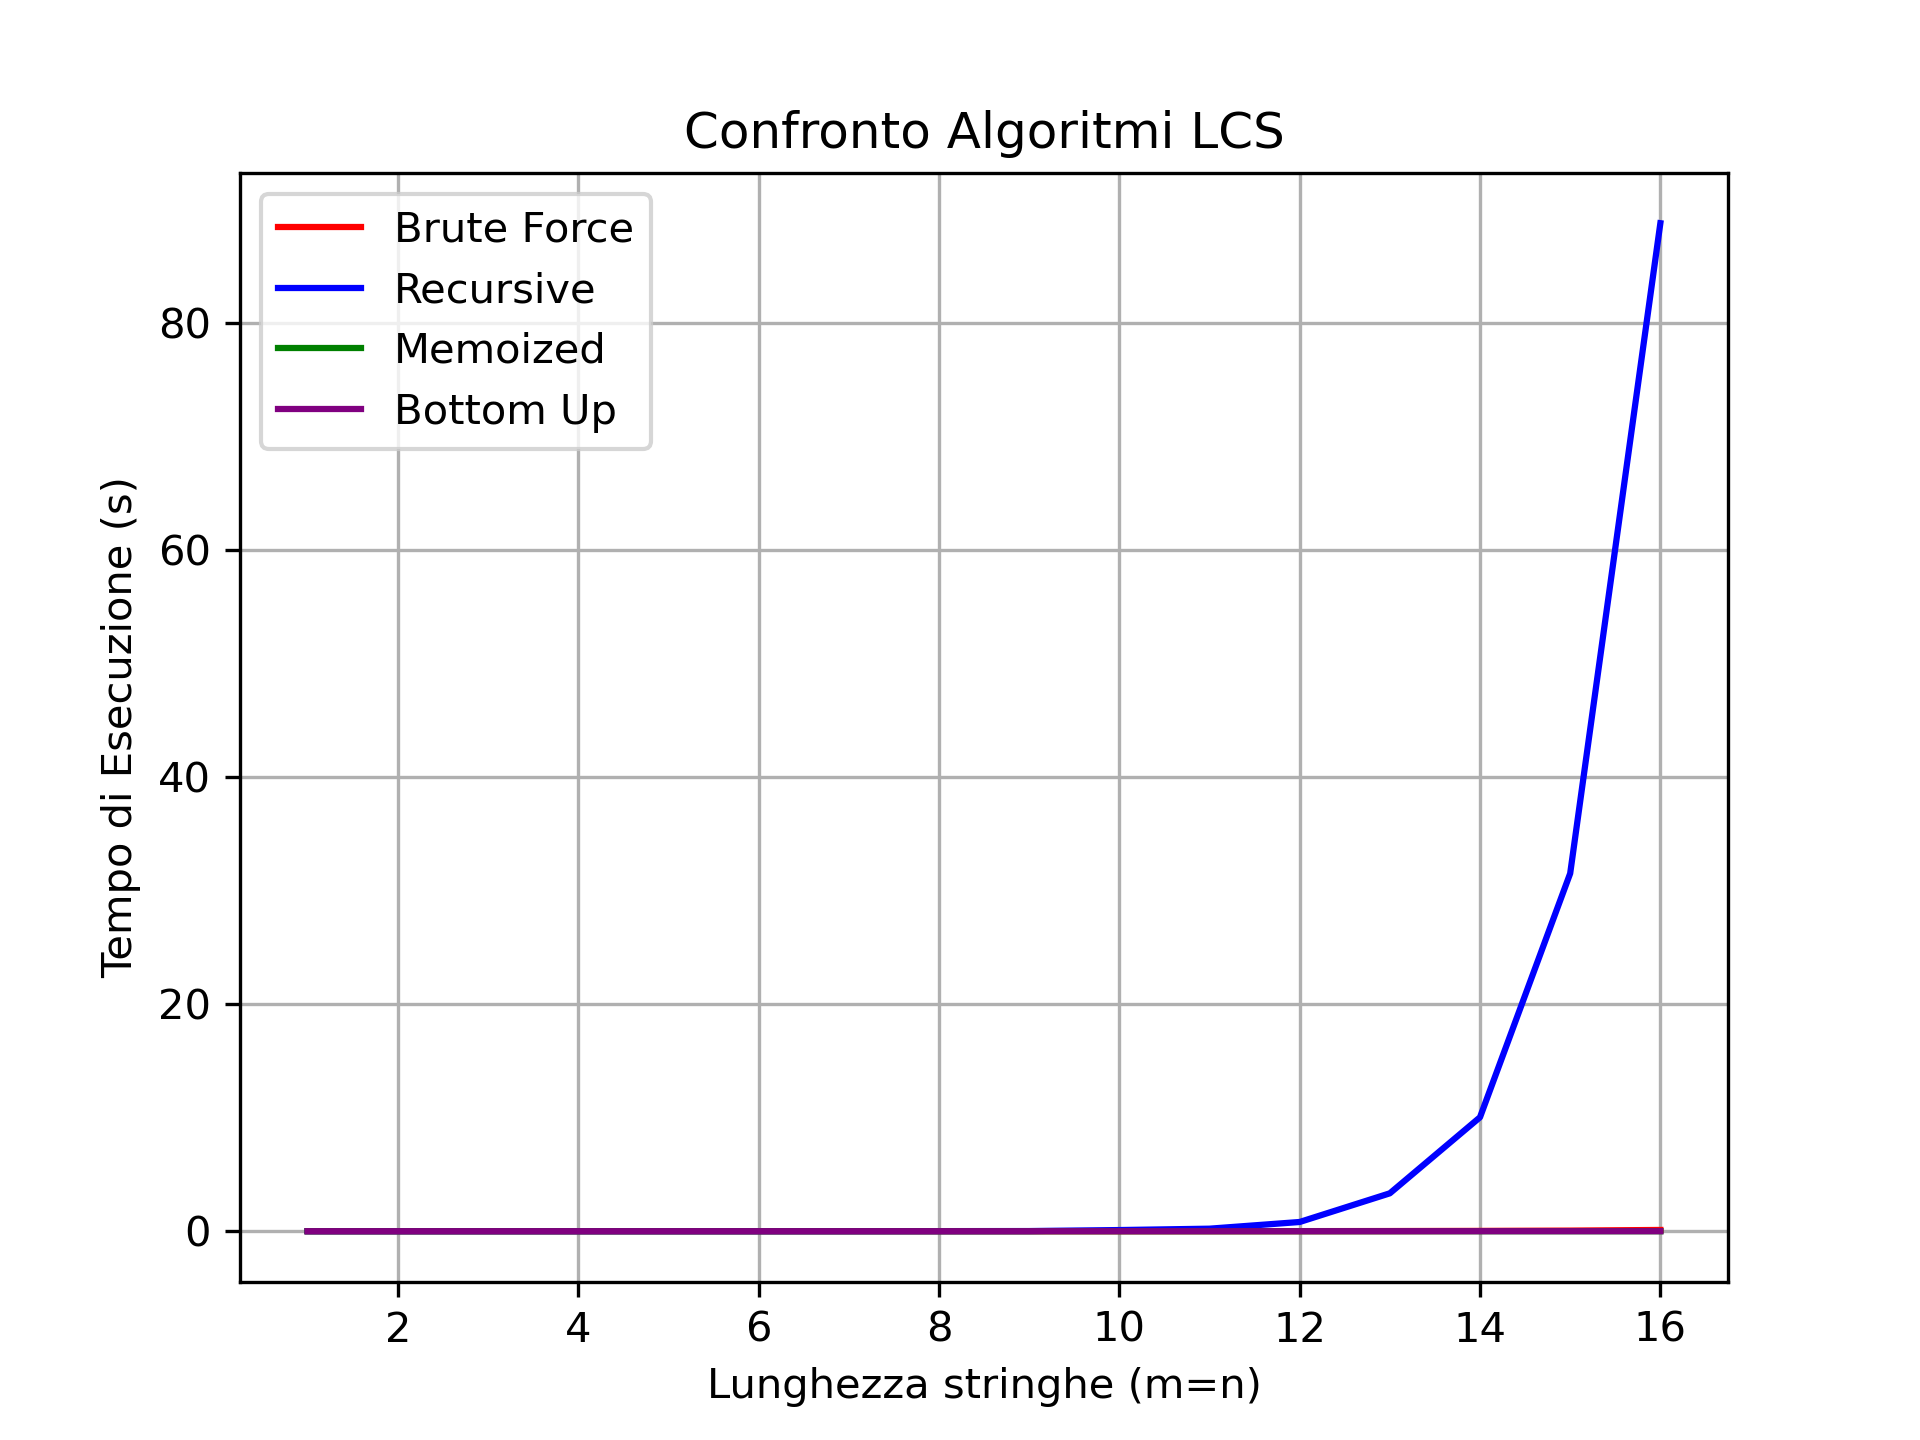
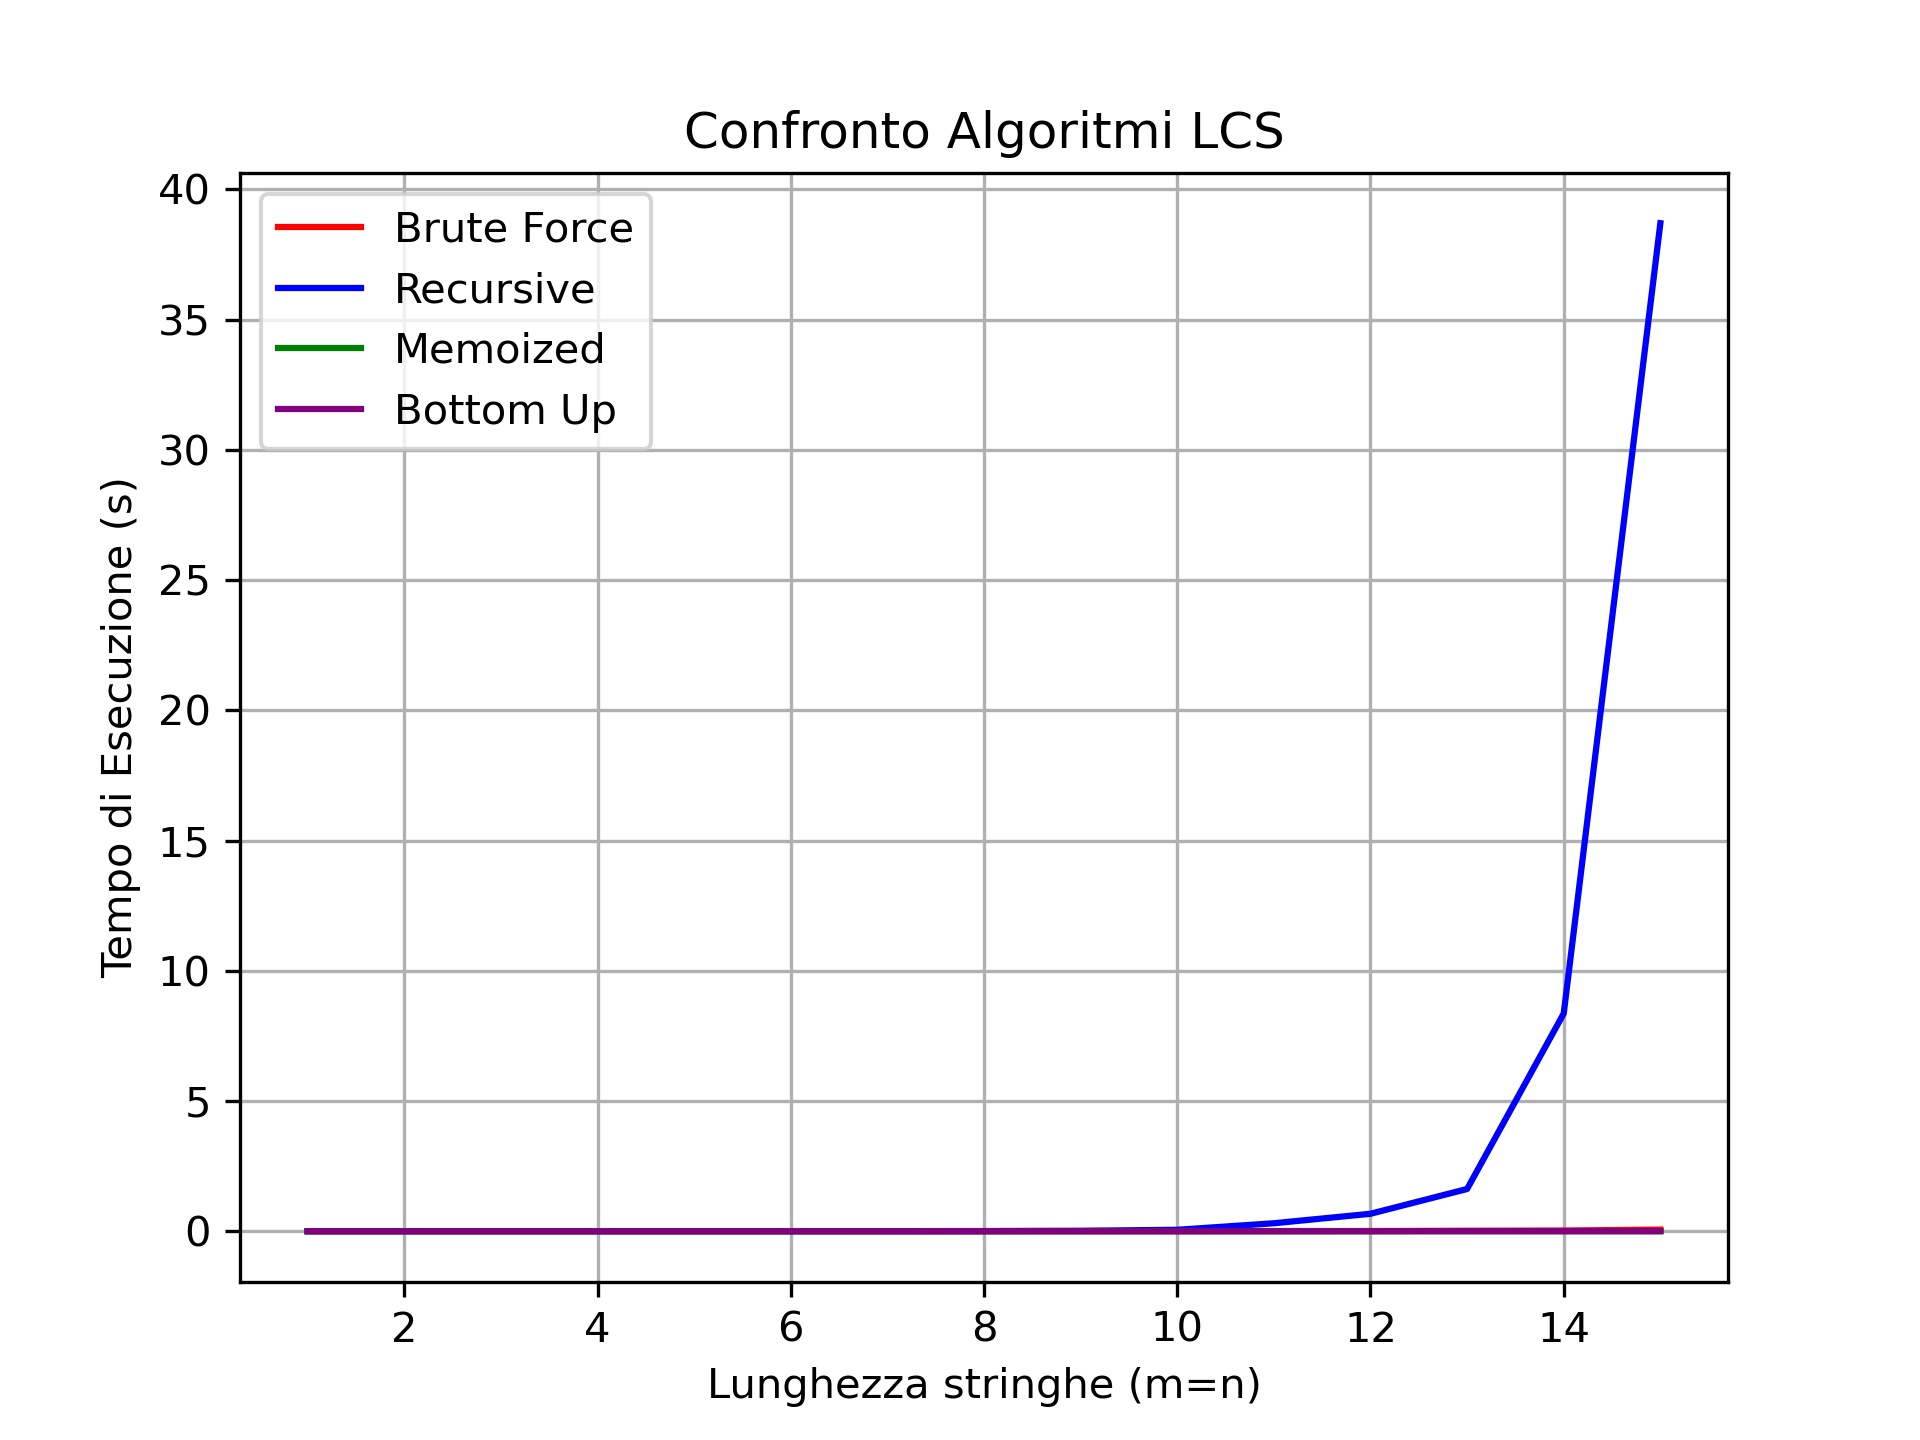
test completi su tutti gli algoritmi, migliorati alcuni test

diff --git a/test.py b/test.py
@@ -49,17 +49,11 @@ def measure_total_memory(lcs_func, x, y):
     return peak
 
 
-def measure_memory_table(x, y):
-    m, n = len(x), len(y)
-    table = [[0] * (n + 1) for _ in range(m + 1)]
-    memory_usage = sys.getsizeof(table) + sum(sys.getsizeof(row) for row in table)
-    return memory_usage
-
 
 def test_same_dimension(lcs_algorithms, string_lengths, num_test):
-    if len(string_lengths) < 20:
+    if len(string_lengths) <= 15:
         results = {"brute_force": [], "recursive": [], "memoization": [], "bottom_up": []}
-    elif len(string_lengths) < 25:
+    elif len(string_lengths) <= 25:
         results = {"brute_force": [], "memoization": [], "bottom_up": []}
     else:
         results = {"memoization": [], "bottom_up": []}
@@ -67,7 +61,7 @@ def test_same_dimension(lcs_algorithms, string_lengths, num_test):
     for length in string_lengths:
         x = generate_random_string(length)
         y = generate_random_string(length)
-        print(f"\n🔹 Testing con stringhe di lunghezza {length}...")
+        print(f"\n Testing con stringhe di lunghezza {length}...")
 
         for name, function in lcs_algorithms.items():
             times = [measure_time(function, x, y) for _ in range(num_test)]
@@ -75,20 +69,19 @@ def test_same_dimension(lcs_algorithms, string_lengths, num_test):
             results[name].append(avg_time)
             print(f"  {name}: {avg_time:.6f} sec")
 
-    print_table(results, string_lengths)
-    if len(string_lengths) < 20:
+    if len(string_lengths) <= 15:
         result = plot_results("Confronto Algoritmi LCS", "Lunghezza stringhe (m=n)", "Tempo di Esecuzione (s)",
                               string_lengths, results["memoization"], results["bottom_up"], results["brute_force"],
                               results["recursive"])
         result.savefig("Confronto Algoritmi LCS1.png", dpi=300)
-    elif len(string_lengths) < 25:
+    elif len(string_lengths) <= 25:
         result = plot_results("Confronto Algoritmi LCS", "Lunghezza stringhe (m=n)", "Tempo di Esecuzione (s)",
                               string_lengths, results["memoization"], results["bottom_up"], results["brute_force"])
-        result.savefig("Confronto Algoritmi LCS1.png", dpi=300)
+        result.savefig("Confronto Algoritmi LCS2.png", dpi=300)
     else:
         result = plot_results("Confronto Algoritmi LCS", "Lunghezza stringhe (m=n)", "Tempo di Esecuzione (s)",
                               string_lengths, results["memoization"], results["bottom_up"])
-        result.savefig("Confronto Algoritmi LCS1.png", dpi=300)
+        result.savefig("Confronto Algoritmi LCS3.png", dpi=300)
 
 
 def test_time_diff_lengths(lcs_algorithms, iterations, num_tests, min_len=1, max_len=15):
@@ -100,14 +93,12 @@ def test_time_diff_lengths(lcs_algorithms, iterations, num_tests, min_len=1, max
         x = generate_random_string(m)
         y = generate_random_string(n)
 
-        print(f"\n🔹 Testing con x di lunghezza {m} e y di lunghezza {n}...")
-
         for name, function in lcs_algorithms.items():
             times = [measure_time(function, x, y) for _ in range(num_tests)]
             avg_time = sum(times) / num_tests
             results[name].append(avg_time)
-            print(f"  {name}: {avg_time:.6f} sec")
 
+    print(f"\n Testing con Stringhe di lunghezza diversa...")
     print_statistics_time(results)
 
 
@@ -121,20 +112,17 @@ def test_time_repeated_strings(lcs_algorithms, iterations, num_tests, min_len=5,
         x = generate_repeated_string(m)
         y = generate_repeated_string(n)
 
-        print(f"\n🔹 Testing con x di lunghezza {m} e y di lunghezza {n}...")
-
         for name, function in lcs_algorithms.items():
             times = [measure_time(function, x, y) for _ in range(num_tests)]
             avg_time = sum(times) / num_tests
             results[name].append(avg_time)
-            print(f"  {name}: {avg_time:.6f} sec")
 
+    print(f"\n Testing con Stringhe di lunghezza diversa...")
     print_statistics_time(results)
 
 
 def test_memory_diff_lengths(lcs_algorithms, iterations, num_tests, min_len=1, max_len=15):
     results = {name: [] for name in lcs_algorithms}
-    results_table = {name: [] for name in ["memoized", "bottom_up"]}
     for _ in range(iterations):
         m = random.randint(min_len, max_len)
         n = random.randint(min_len, max_len)
@@ -145,20 +133,8 @@ def test_memory_diff_lengths(lcs_algorithms, iterations, num_tests, min_len=1, m
             mem_usage = [measure_total_memory(function, x, y) for _ in range(num_tests)]
             avg_mem = sum(mem_usage) / num_tests
             results[name].append(avg_mem)
-            if name in results_table:
-                mem_table = [measure_memory_table(x, y) for _ in range(num_tests)]
-                avg_table = sum(mem_table) / num_tests
-                results_table[name].append(avg_table)
-            print(f"  {name}: {avg_mem:.2f} bytes")
 
     print_statistics_mem("Memoria totale usata", results)
-    print_statistics_mem("Memoria usata per la tabella", results_table)
-
-
-def print_table(results, string_lengths):
-    headers = ["Lunghezza"] + list(results.keys())
-    rows = [[string_lengths[i]] + [round(results[algo][i], 6) for algo in results] for i in range(len(string_lengths))]
-    print(tabulate(rows, headers=headers, tablefmt="grid"))
 
 
 def print_statistics_time(results):
@@ -173,14 +149,11 @@ def print_statistics_time(results):
 def print_statistics_mem(title, results):
     print(f"\n {title}")
     for algo, values in results.items():
-        if values:
-            print(f"  🔹 {algo}:")
+            print(f"    {algo}:")
             print(f"    - Memoria media: {np.mean(values):.2f} bytes")
             print(f"    - Mediana: {np.median(values):.2f} bytes")
             print(f"    - Memoria massima: {np.max(values):.2f} bytes")
             print(f"    - Memoria minima: {np.min(values):.2f} bytes")
-        else:
-            print(f"  🔹 {algo}: Nessun dato disponibile.")
 
 
 def plot_results(title, x_lab, y_lab, x, memoized, bottom_up, brute_force=None, recursive=None):

diff --git a/main.py b/main.py
@@ -7,10 +7,26 @@ import random
 import string
 import numpy as np
 import matplotlib
+import sys
+sys.setrecursionlimit(10 ** 6)
 matplotlib.use('TkAgg')
 import matplotlib.pyplot as plt
 
+
 if __name__ == '__main__':
+
+    lcs_algorithms = {
+        "brute_force": lcs_brute_force,
+        "recursive": lcs_recursive,
+        "memoization": lcs_memoized,
+        "bottom_up": lcs_bottom_up
+    }
+
+    string_lengths = list(range(1, 16, 1))
+
+    num_test = 3
+
+    test_same_dimension(lcs_algorithms, string_lengths, num_test)
     lcs_algorithms = {
       "brute_force": lcs_brute_force,
       "memoization": lcs_memoized,
@@ -26,7 +42,7 @@ if __name__ == '__main__':
         "memoization": lcs_memoized,
         "bottom_up": lcs_bottom_up
     }
-    string_lengths = list(range(1, 501, 10))
+    string_lengths = list(range(1, 1001, 10))
 
     num_test = 5
 
@@ -48,17 +64,3 @@ if __name__ == '__main__':
     test_time_repeated_strings(lcs_algorithms, iterations, num_tests)
 
     test_memory_diff_lengths(lcs_algorithms, iterations, num_tests)
-
-
-"""lcs_algorithms = {
-"brute_force": lcs_brute_force,
-"recursive": lcs_recursive,
-"memoization": lcs_memoized,
-"bottom_up": lcs_bottom_up
-}
-
-string_lengths = list(range(1, 17, 1))
-
-num_test = 1
-
-test_same_dimension(lcs_algorithms, string_lengths, num_test)"""
